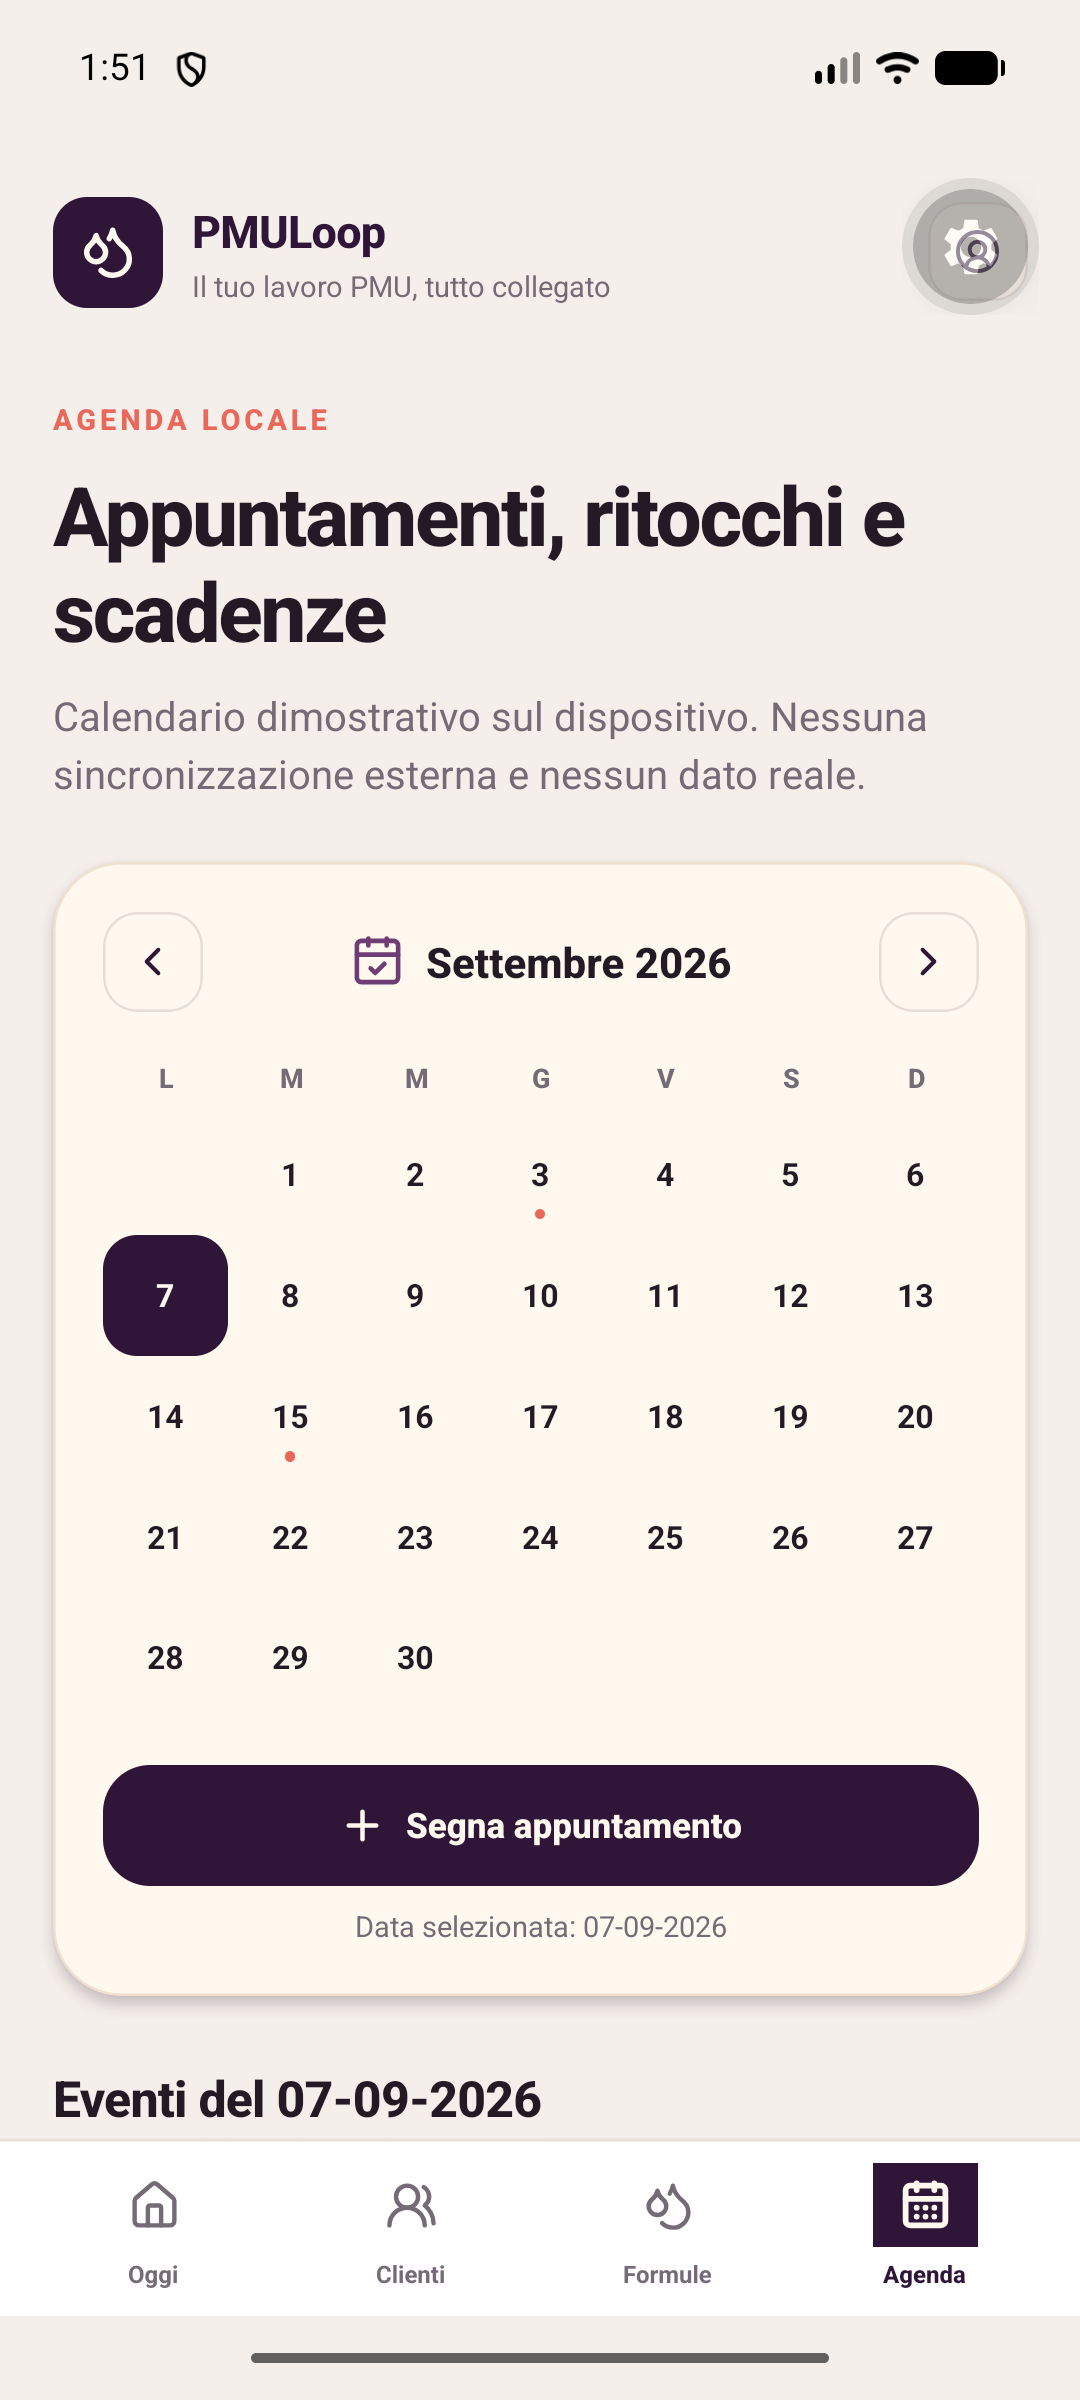
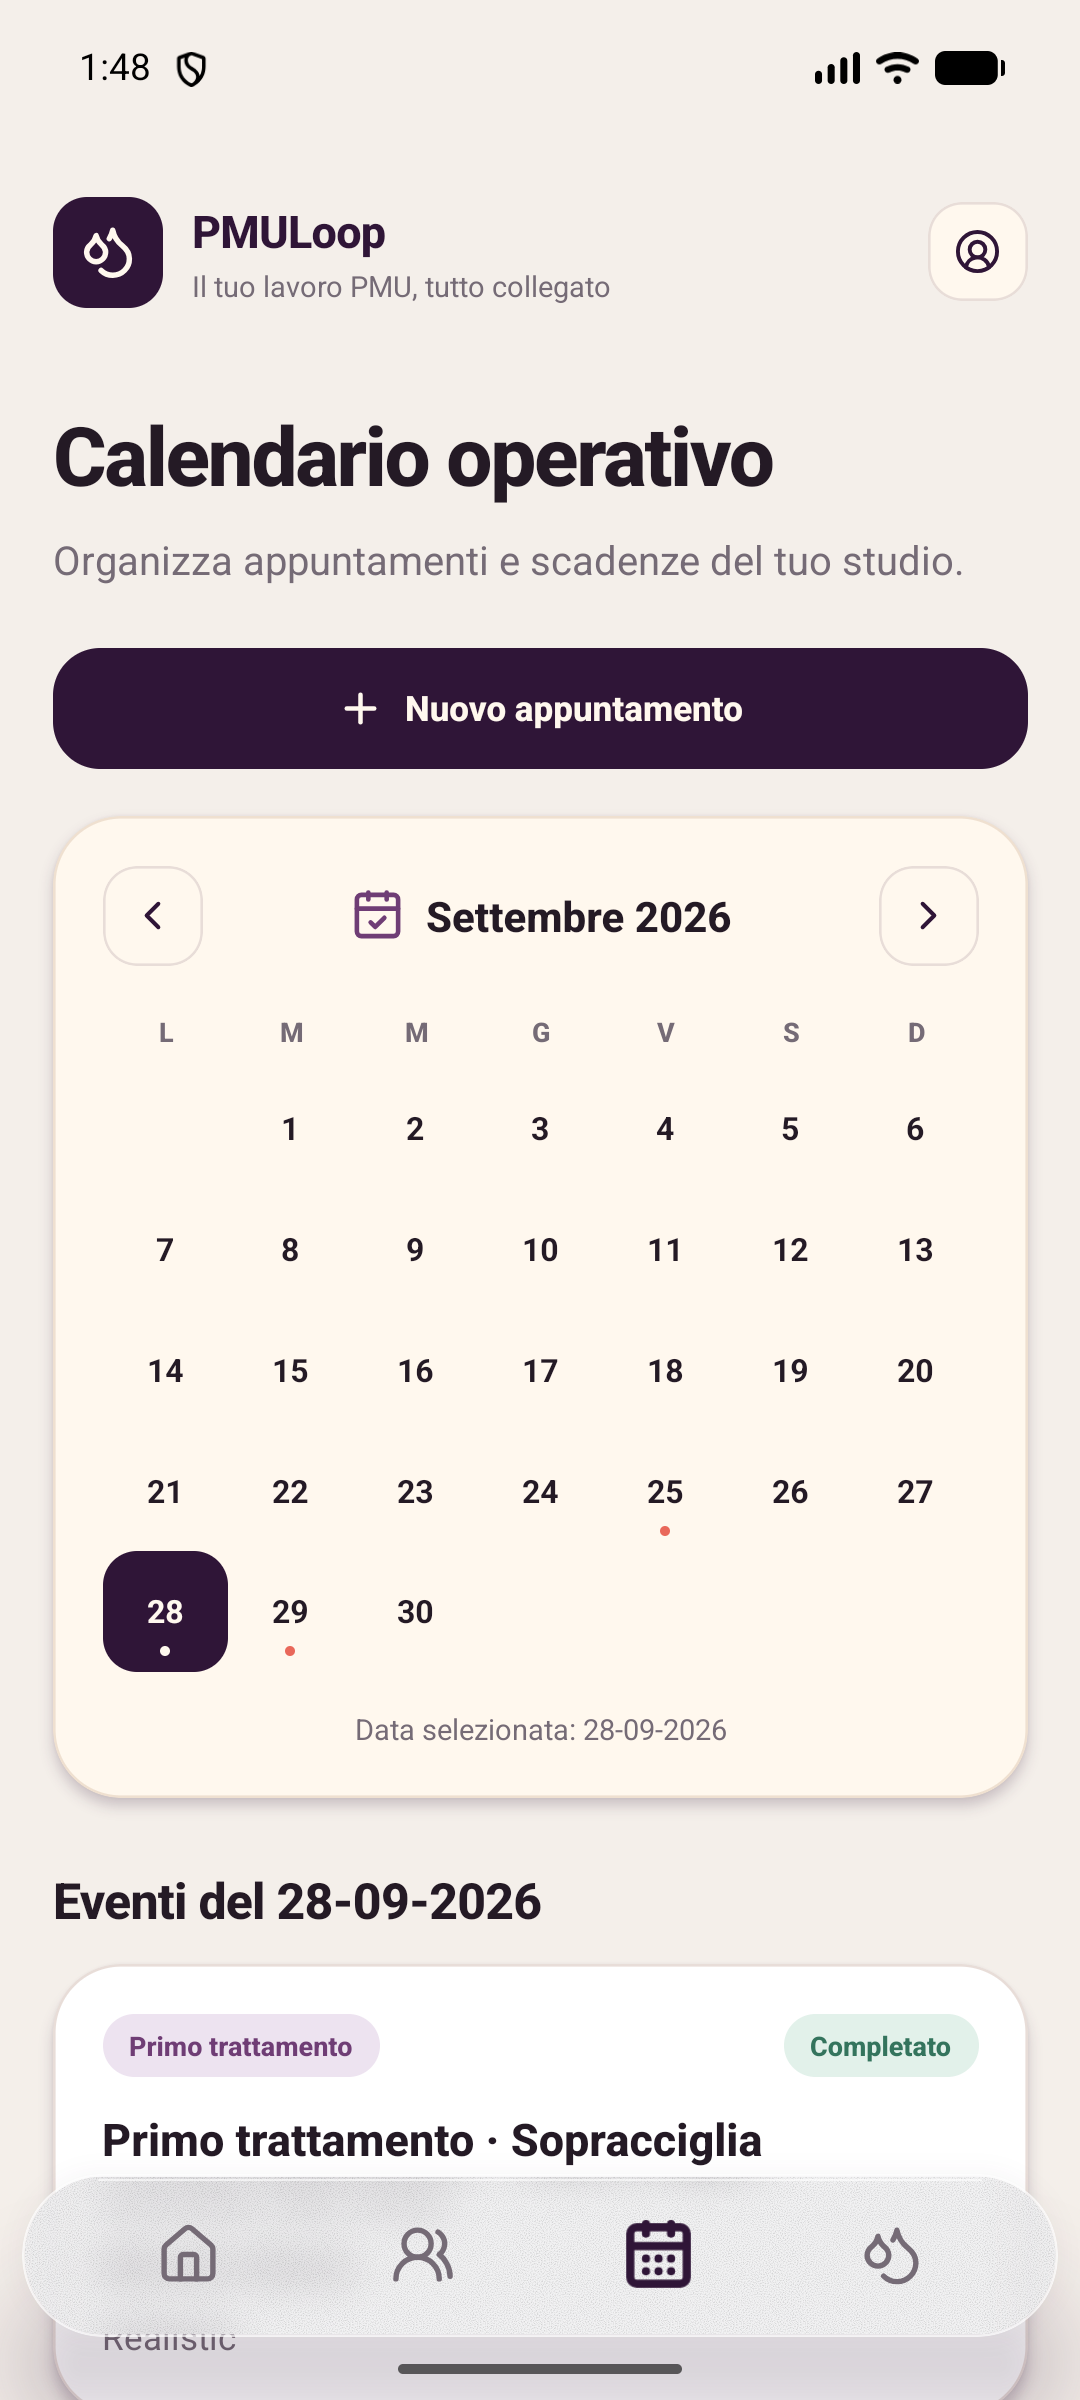
Refresh landing visuals and add iPad showcase

diff --git a/index.html b/index.html
@@ -60,6 +60,7 @@
           <a href="#funzioni">Funzioni</a>
           <a href="#workspace">Workspace</a>
           <a href="#schermate">Schermate</a>
+          <a href="#ipad">iPad</a>
           <a href="#catalogo">Catalogo</a>
           <a class="nav-cta" href="founding-pass/">Founding Pass</a>
         </nav>
@@ -72,12 +73,12 @@
         <div class="hero-glow hero-glow-two" aria-hidden="true"></div>
         <div class="container hero-grid">
           <div class="hero-copy reveal">
-            <p class="eyebrow"><span></span> In arrivo su iOS e Android</p>
+            <p class="eyebrow"><span></span> In arrivo su iPhone, iPad e Android</p>
             <h1>Ogni cliente.<br>Ogni trattamento.<br><em>Tutto collegato.</em></h1>
             <p class="hero-lead">
               PMULoop tiene unito l'intero lavoro PMU: schede cliente, agenda,
               trattamenti, formule, pigmenti, foto, documenti e firme. La beta
-              protetta è già disponibile su iPhone e Android per il collaudo.
+              protetta è già disponibile su iPhone, iPad e Android per il collaudo.
             </p>
             <div class="hero-actions">
               <a class="button button-primary" href="#funzioni">
@@ -115,10 +116,10 @@
             <div class="phone phone-hero">
               <div class="phone-speaker" aria-hidden="true"></div>
               <img
-                src="assets/app-workspace.png"
-                alt="Schermata principale della beta PMULoop con il workspace completo"
-                width="922"
-                height="2048"
+                src="assets/app-home.png"
+                alt="Dashboard operativa della beta PMULoop"
+                width="1080"
+                height="2400"
                 decoding="async"
                 fetchpriority="high"
               >
@@ -299,7 +300,7 @@
             <h2>Il lavoro quotidiano, finalmente nello stesso posto.</h2>
             <p>
               Le schermate arrivano dalla beta corrente e usano esclusivamente
-              contenuti dimostrativi: mostrano il flusso reale senza esporre dati di clienti.
+              contenuti di esempio: mostrano il flusso reale senza esporre dati di clienti.
             </p>
           </div>
 
@@ -307,15 +308,15 @@
             <figure class="screen-card reveal">
               <div class="screen-phone">
                 <img
-                  src="assets/app-catalog.png"
-                  alt="Catalogo pigmenti nella beta PMULoop"
-                  width="922"
-                  height="2048"
+                  src="assets/app-clienti.png"
+                  alt="Elenco clienti nella beta PMULoop"
+                  width="1080"
+                  height="2400"
                   loading="lazy"
                   decoding="async"
                 >
               </div>
-              <figcaption><strong>Catalogo</strong><span>Pigmenti e fonti ufficiali a portata di tocco</span></figcaption>
+              <figcaption><strong>Clienti</strong><span>Schede, trattamenti e documenti sempre collegati</span></figcaption>
             </figure>
 
             <figure class="screen-card screen-card-featured reveal reveal-delay-short">
@@ -323,8 +324,8 @@
                 <img
                   src="assets/app-agenda.png"
                   alt="Agenda appuntamenti nella beta PMULoop"
-                  width="922"
-                  height="2048"
+                  width="1080"
+                  height="2400"
                   loading="lazy"
                   decoding="async"
                 >
@@ -335,16 +336,58 @@
             <figure class="screen-card reveal reveal-delay">
               <div class="screen-phone">
                 <img
-                  src="assets/app-workspace.png"
-                  alt="Workspace operativo nella beta PMULoop"
-                  width="922"
-                  height="2048"
+                  src="assets/app-formulario.png"
+                  alt="Formulario delle miscele nella beta PMULoop"
+                  width="1080"
+                  height="2400"
                   loading="lazy"
                   decoding="async"
                 >
               </div>
-              <figcaption><strong>Oggi</strong><span>Il prossimo passo sempre visibile</span></figcaption>
+              <figcaption><strong>Formulario</strong><span>Le miscele salvate, subito riconoscibili</span></figcaption>
             </figure>
+          </div>
+        </div>
+      </section>
+
+      <section class="section ipad-section" id="ipad">
+        <div class="container ipad-grid">
+          <div class="ipad-copy reveal">
+            <p class="eyebrow light"><span></span> Pensata anche per iPad</p>
+            <h2>Più spazio per il lavoro in studio.</h2>
+            <p>
+              PMULoop si adatta allo schermo dell'iPad: calendario, clienti e
+              formulario restano leggibili, ordinati e pronti da usare sia in
+              verticale sia in orizzontale.
+            </p>
+            <ul class="ipad-points">
+              <li>Dashboard e calendario sfruttano l'area più ampia</li>
+              <li>Stesso account e stesso workspace protetto</li>
+              <li>Interfaccia coerente tra iPhone, iPad e Android</li>
+            </ul>
+          </div>
+
+          <div class="ipad-visual reveal reveal-delay" aria-label="PMULoop adattata allo schermo iPad">
+            <div class="ipad-device ipad-device-back" aria-hidden="true">
+              <img
+                src="assets/app-ipad-home.png"
+                alt=""
+                width="1600"
+                height="2133"
+                loading="lazy"
+                decoding="async"
+              >
+            </div>
+            <div class="ipad-device ipad-device-front">
+              <img
+                src="assets/app-ipad-calendar.png"
+                alt="Calendario operativo PMULoop su iPad"
+                width="1600"
+                height="2133"
+                loading="lazy"
+                decoding="async"
+              >
+            </div>
           </div>
         </div>
       </section>
@@ -358,8 +401,8 @@
               <img
                 src="assets/app-catalog.png"
                 alt="Catalogo PMULoop con filtri per vendor, palette colore e stato editoriale"
-                width="922"
-                height="2048"
+                width="1080"
+                height="2400"
                 loading="lazy"
                 decoding="async"
               >
@@ -449,7 +492,7 @@
         <div class="container">
           <p>
             <strong>Questa è la beta protetta di PMULoop 1.0.</strong>
-            Le schermate mostrano esclusivamente dati dimostrativi. L'uso con dati reali sarà abilitato soltanto dopo il completamento dei collaudi privacy, sicurezza e ripristino.
+             Le schermate mostrano esclusivamente dati di esempio. L'uso con dati reali sarà abilitato soltanto dopo il completamento dei collaudi privacy, sicurezza e ripristino.
           </p>
         </div>
       </section>

diff --git a/styles.css b/styles.css
@@ -1136,6 +1136,121 @@ h2 {
   font-size: 0.84rem;
 }
 
+.ipad-section {
+  position: relative;
+  overflow: hidden;
+  color: var(--white);
+  background:
+    radial-gradient(circle at 82% 24%, rgba(242, 111, 98, 0.2), transparent 28%),
+    radial-gradient(circle at 12% 88%, rgba(207, 141, 40, 0.14), transparent 24%),
+    linear-gradient(145deg, #2a0f31, #4a1d50 62%, #2b102f);
+}
+
+.ipad-grid {
+  display: grid;
+  grid-template-columns: minmax(0, 0.82fr) minmax(560px, 1.18fr);
+  align-items: center;
+  gap: 72px;
+}
+
+.ipad-copy {
+  position: relative;
+  z-index: 3;
+}
+
+.ipad-copy h2 {
+  margin: 18px 0 22px;
+  max-width: 620px;
+  color: var(--white);
+  font-size: clamp(2.7rem, 5vw, 5rem);
+  line-height: 0.98;
+  letter-spacing: -0.055em;
+}
+
+.ipad-copy > p:not(.eyebrow) {
+  max-width: 570px;
+  color: rgba(255, 255, 255, 0.76);
+  font-size: 1.04rem;
+  line-height: 1.75;
+}
+
+.ipad-points {
+  display: grid;
+  gap: 12px;
+  margin: 30px 0 0;
+  padding: 0;
+  list-style: none;
+}
+
+.ipad-points li {
+  position: relative;
+  padding-left: 28px;
+  color: rgba(255, 255, 255, 0.9);
+  font-weight: 750;
+  line-height: 1.5;
+}
+
+.ipad-points li::before {
+  content: "";
+  position: absolute;
+  top: 0.48em;
+  left: 0;
+  width: 12px;
+  height: 12px;
+  border: 3px solid rgba(255, 255, 255, 0.8);
+  border-top: 0;
+  border-left: 0;
+  transform: rotate(45deg);
+}
+
+.ipad-visual {
+  position: relative;
+  min-height: 650px;
+}
+
+.ipad-visual::before {
+  content: "";
+  position: absolute;
+  inset: 8% -4% 3% 8%;
+  border: 1px solid rgba(255, 255, 255, 0.13);
+  border-radius: 50%;
+}
+
+.ipad-device {
+  position: absolute;
+  overflow: hidden;
+  border: 10px solid #1f1024;
+  border-radius: 34px;
+  background: #f8f1ed;
+  box-shadow: 0 32px 80px rgba(10, 3, 12, 0.42);
+}
+
+.ipad-device img {
+  display: block;
+  width: 100%;
+  height: 100%;
+  object-fit: cover;
+  object-position: top center;
+}
+
+.ipad-device-back {
+  top: 84px;
+  right: 18px;
+  width: 430px;
+  aspect-ratio: 3 / 4;
+  opacity: 0.42;
+  transform: rotate(4deg);
+}
+
+.ipad-device-front {
+  z-index: 2;
+  top: 10px;
+  left: 0;
+  width: 500px;
+  aspect-ratio: 3 / 4;
+  transform: rotate(-2deg);
+}
+
 .catalog-section {
   position: relative;
   overflow: hidden;
@@ -1547,6 +1662,21 @@ footer p {
     gap: 44px;
   }
 
+  .ipad-grid {
+    grid-template-columns: 1fr;
+    gap: 34px;
+  }
+
+  .ipad-copy {
+    max-width: 720px;
+  }
+
+  .ipad-visual {
+    width: min(100%, 720px);
+    min-height: 610px;
+    margin: 0 auto;
+  }
+
   .planned-grid,
   .privacy-plan,
   .screens-grid {
@@ -1849,6 +1979,19 @@ footer p {
 
   .catalog-visual {
     min-height: 590px;
+  }
+
+  .ipad-visual {
+    min-height: 470px;
+  }
+
+  .ipad-device-front {
+    width: min(76vw, 390px);
+  }
+
+  .ipad-device-back {
+    right: 0;
+    width: min(65vw, 330px);
   }
 
   .phone-catalog {
